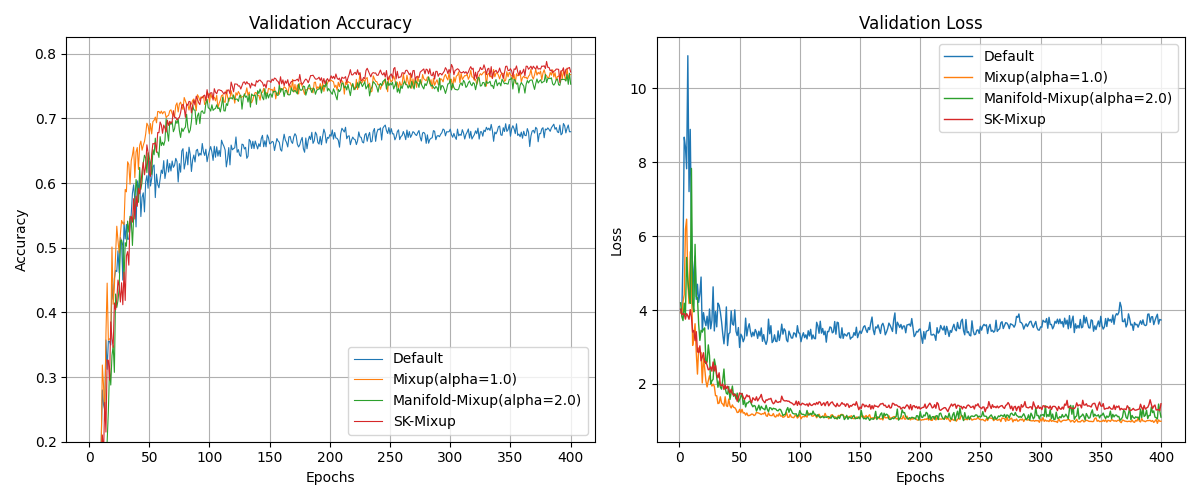
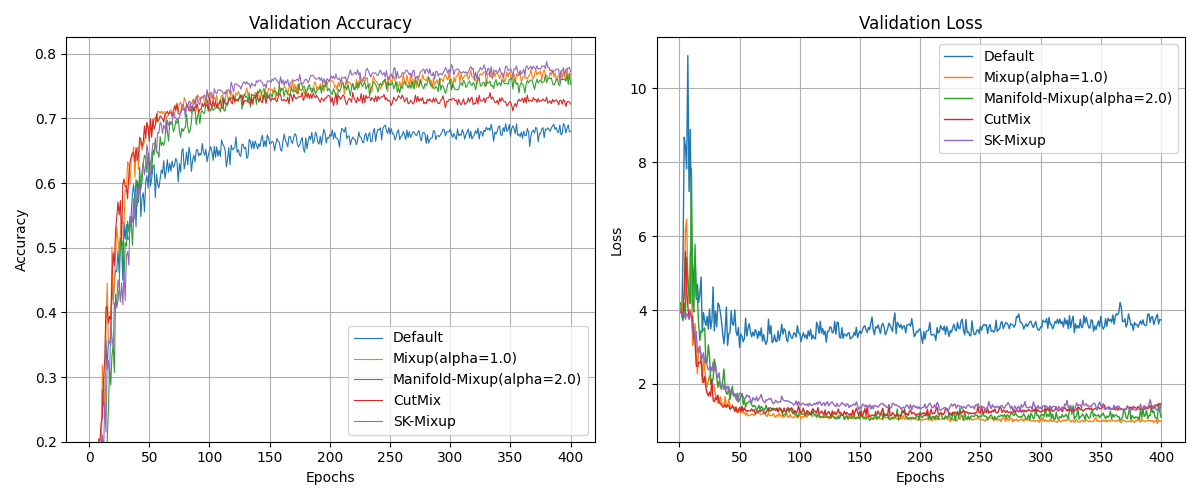
cutmix result

diff --git a/result.py b/result.py
@@ -31,7 +31,7 @@ def main():
         # "Manifold-Mixup(alpha=5.0)",
         # "Mixup-Curriculum",
 
-        # "CutMix",
+        "CutMix",
         # "AugMix",
 
         # "Ent-Mixup",
